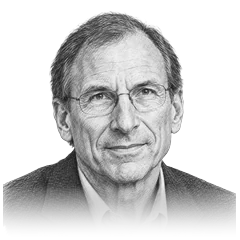
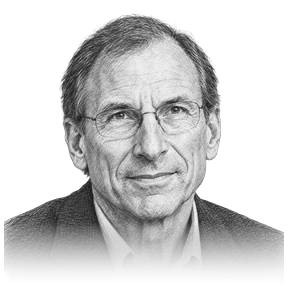
Author strip: portraits 20% larger (120px to 144px)
Portraits start at 144px and are re-exported at 288x288 (2x) so they stay
sharp; the hover growth scales with them. Gaps, neighbour slide distances
and the headroom for the quote grow to match, and every quote still clears
the section heading.

Claude-Session: https://claude.ai/code/session_01VaoqKuJj5DLPneMi29o7VR

diff --git a/public/styles.css b/public/styles.css
@@ -211,7 +211,7 @@ h2 {
   overflow: hidden;
   /* The extra top padding above is headroom for hovered portraits; pull the strip up by the
      same amount so its position on the page doesn't change. */
-  margin-top: -2px;
+  margin-top: -40px;
   -webkit-mask-image: linear-gradient(to right, transparent, #000 8%, #000 92%, transparent);
           mask-image: linear-gradient(to right, transparent, #000 8%, #000 92%, transparent);
 }
@@ -228,22 +228,22 @@ h2 {
 @keyframes marquee { from { transform: translateX(0); } to { transform: translateX(calc(-100% / var(--marquee-copies, 2))); } }
 .marquee-set {
   display: flex;
-  gap: 28px;
+  gap: 34px;
   list-style: none;
   margin: 0;
   /* Trailing space equals the gap, and every size is a whole pixel, so one set is exactly
      half the track and the -50% loop point lands on a pixel boundary: no visible jump. */
-  padding: 216px 28px 30px 0; /* headroom for the hover magnification, glow and quote */
+  padding: 256px 34px 30px 0; /* headroom for the hover magnification, glow and quote */
 }
-.marquee .author { flex: 0 0 auto; width: 120px; text-align: center; }
+.marquee .author { flex: 0 0 auto; width: 144px; text-align: center; }
 .marquee .author a { display: block; color: inherit; text-decoration: none; border-radius: 4px; }
 .marquee .author a:focus-visible { outline: 1px solid var(--accent); outline-offset: 4px; }
 /* Portraits are transparent cut-outs that float on the page: no frame, no background. */
 .marquee .author img,
 .marquee .initials {
   display: block;
-  width: 120px;
-  height: 120px;
+  width: 144px;
+  height: 144px;
   object-fit: contain;
   object-position: center bottom;
 }
@@ -312,13 +312,13 @@ h2 {
 .marquee .author:focus-within { transform: scale(var(--dock-scale)); z-index: 1; }
 /* Neighbours grow less and slide outward so the enlarged portrait never overlaps them. */
 .marquee .author:has(+ .author:hover),
-.marquee .author:has(+ .author:focus-within) { transform: translateX(-34px) scale(1.2); }
+.marquee .author:has(+ .author:focus-within) { transform: translateX(-41px) scale(1.2); }
 .marquee .author:hover + .author,
-.marquee .author:focus-within + .author { transform: translateX(34px) scale(1.2); }
+.marquee .author:focus-within + .author { transform: translateX(41px) scale(1.2); }
 .marquee .author:has(+ .author + .author:hover),
-.marquee .author:has(+ .author + .author:focus-within) { transform: translateX(-16px) scale(1.07); }
+.marquee .author:has(+ .author + .author:focus-within) { transform: translateX(-19px) scale(1.07); }
 .marquee .author:hover + .author + .author,
-.marquee .author:focus-within + .author + .author { transform: translateX(16px) scale(1.07); }
+.marquee .author:focus-within + .author + .author { transform: translateX(19px) scale(1.07); }
 .marquee .author:hover img,
 .marquee .author:hover .initials,
 .marquee .author:focus-within img,

diff --git a/build.js b/build.js
@@ -176,7 +176,7 @@ function initials(name) {
 
 function authorItem(a, prefix, copy) {
   const face = a.portrait
-    ? `<img src="${prefix}${a.portrait}" alt="" width="120" height="120" loading="lazy" decoding="async" />`
+    ? `<img src="${prefix}${a.portrait}" alt="" width="144" height="144" loading="lazy" decoding="async" />`
     : `<span class="initials" aria-hidden="true">${esc(initials(a.name))}</span>`;
   const quote = a.quote
     ? `<span class="quote"><q>${esc(a.quote)}</q>${a.quoteSource ? `<cite>${esc(a.quoteSource)}</cite>` : ''}</span>`

diff --git a/scripts/portraits.py b/scripts/portraits.py
@@ -6,7 +6,7 @@ e.g. `daniel-kahneman.png`, `niccolo-machiavelli.webp`, and for each one:
   - trims the empty margin and scales the figure to a fixed height, centred and sitting on the
     bottom edge, so every portrait in the strip lines up;
   - fades the bottom edge out, so the shoulders melt into the page instead of ending in a line;
-  - writes a 240x240 WebP (2x the 120px display size) to assets/portraits/<name>.webp;
+  - writes a 288x288 WebP (2x the 144px display size) to assets/portraits/<name>.webp;
   - records it in data/authors.json.
 
 Usage: python3 scripts/portraits.py <folder-or-files...>      (needs Pillow: pip install pillow)
@@ -16,7 +16,7 @@ from pathlib import Path
 from PIL import Image, ImageChops
 
 ROOT = Path(__file__).resolve().parent.parent
-SIZE = 240          # output square, px (2x display)
+SIZE = 288          # output square, px (2x the 144px display size)
 FIGURE = 0.96       # figure height as a share of the square
 FADE = 0.24         # bottom share of the figure that fades out
 MAX_BYTES = 30_000
